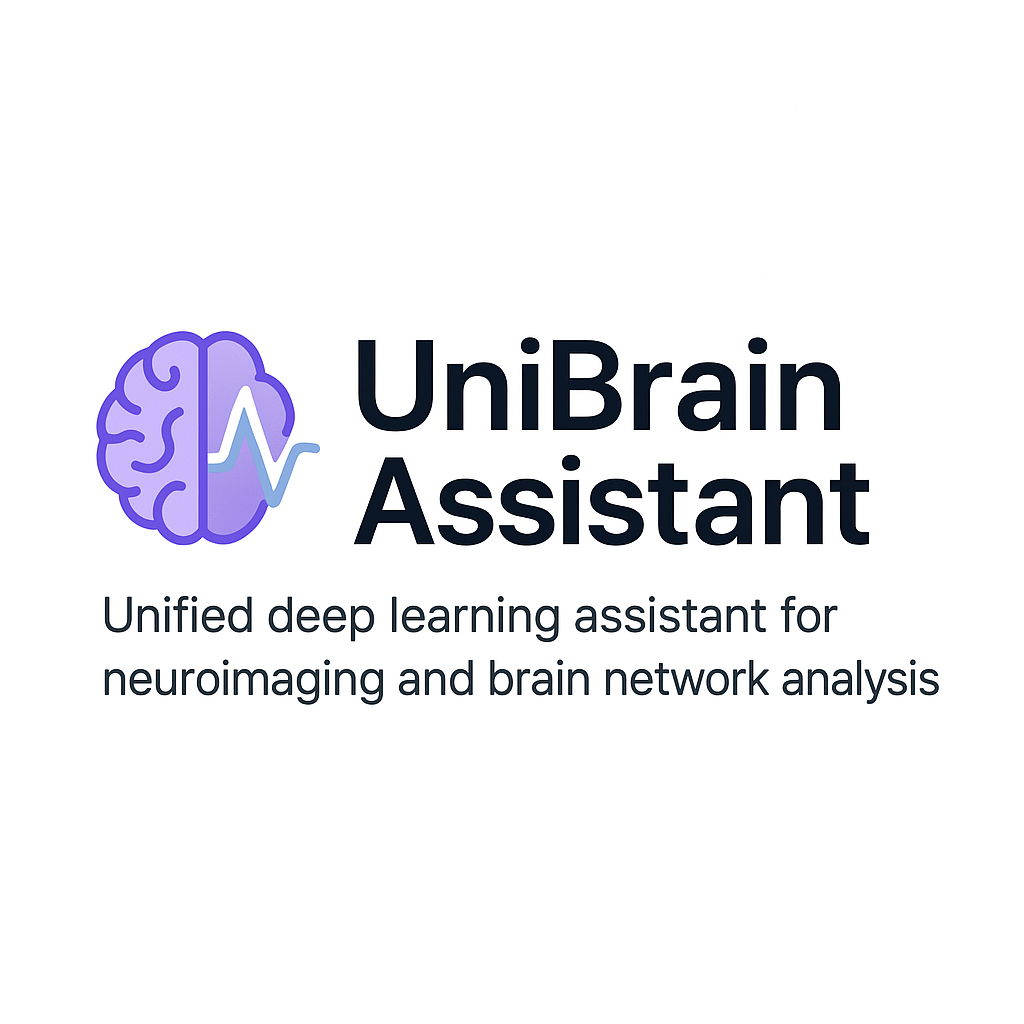
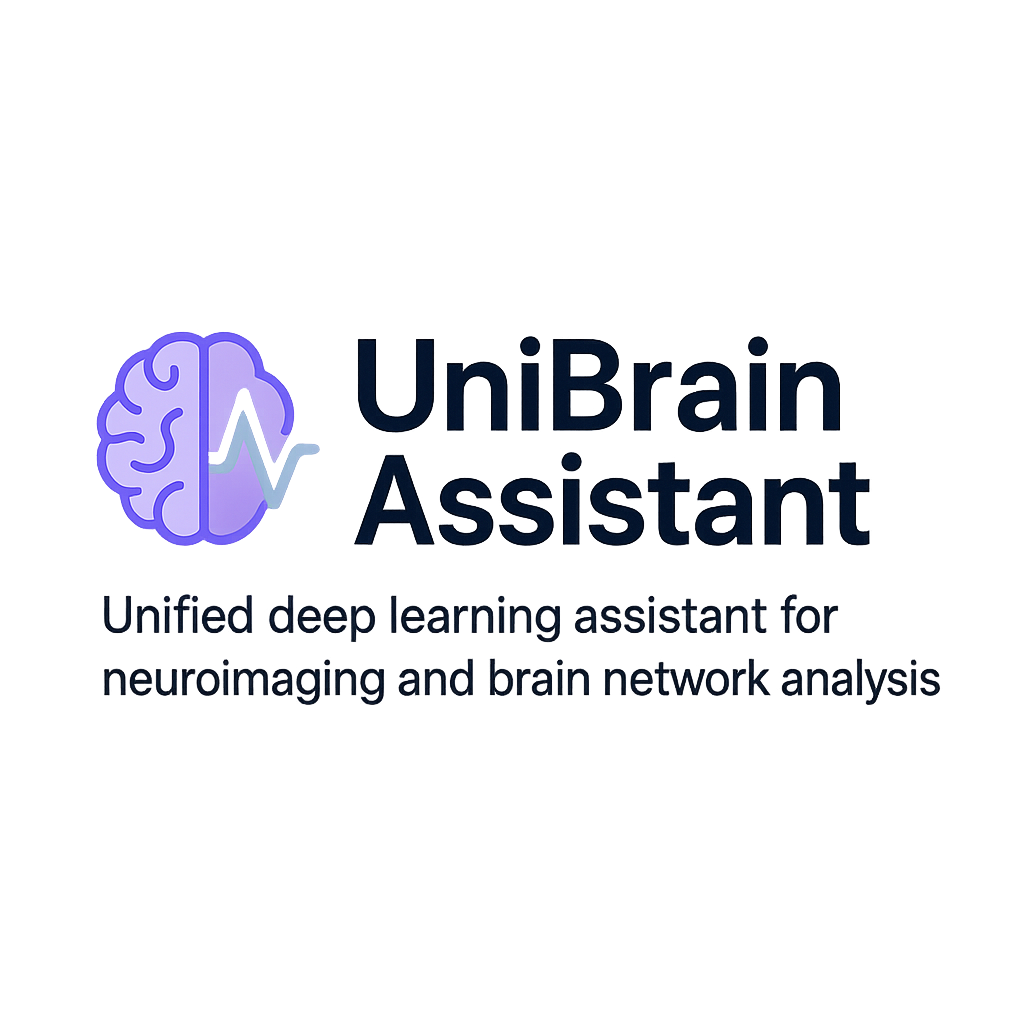
update header image

diff --git a/src/posts/get_started.md b/src/posts/get_started.md
@@ -68,7 +68,7 @@ See `requirements.txt` for exact version pins.
 5. Chat with your data right in the browser:
 
    ```
-   ❯ skip segmentation
+   ❯ skip segmentation and do the whole preprocessing
    ❯ how does parcellation work?
-   ❯ show only the brain network results
+   ❯ 
    ```
